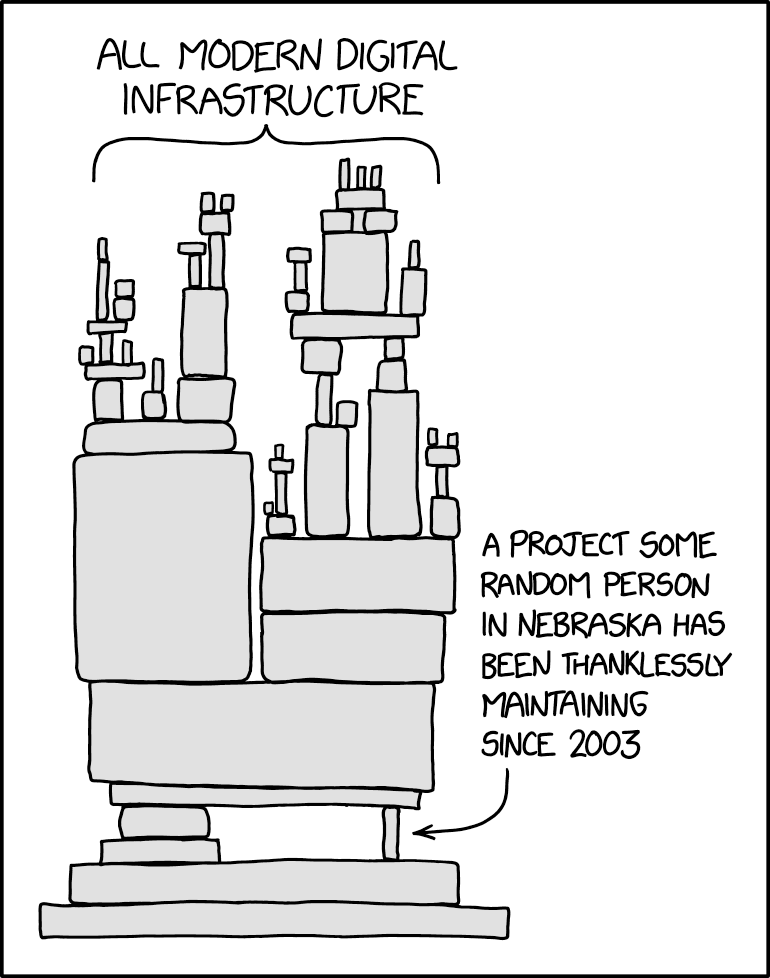
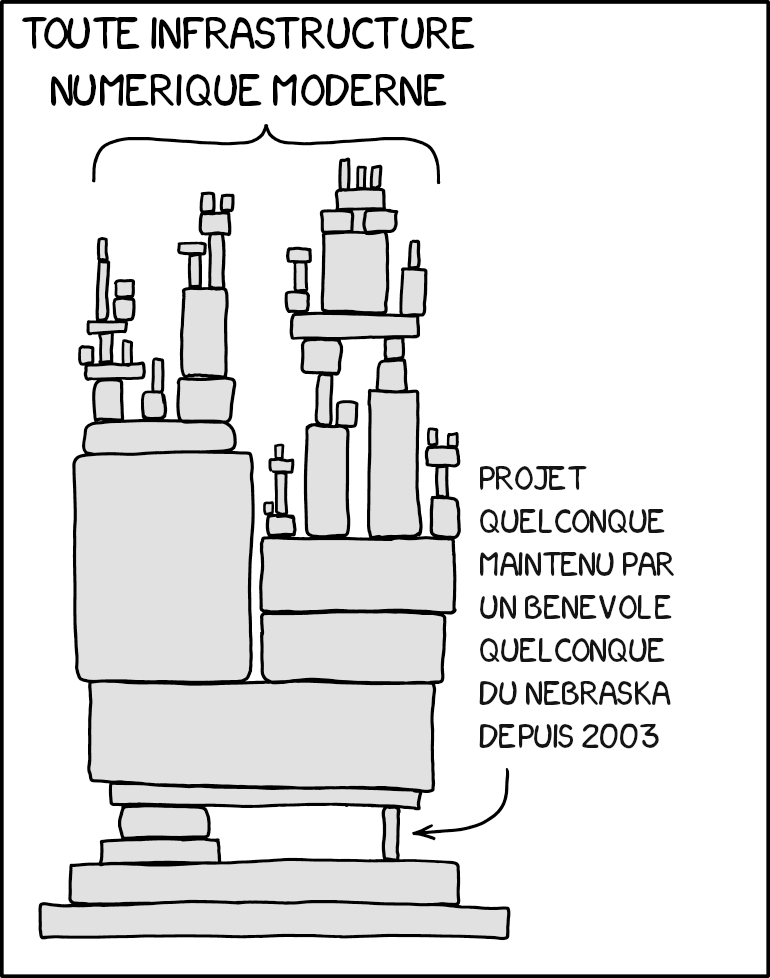
Traduction et déplacement de XKCD

Changed region(s): [[0.6234, 0.4601, 0.9351, 0.7975], [0.0312, 0.0, 0.6234, 0.1227]]

diff --git a/slides.md b/slides.md
@@ -286,10 +286,6 @@ Voici la définition de l'open-source selon wikipedia
 
 --
 
-<!-- .slide: data-background-image="media/dependency_2x.png" data-background-size="contain" -->
-
---
-
 <!-- .slide: data-background-image="media/tech-drawing.jpg, media/kicad.png" -->
 
 Notes:
@@ -314,6 +310,17 @@ Si on compare le logiciel libre à un objet électronique
 * les couches
 * les composants
 * le schéma électrique
+
+--
+
+<!-- .slide: data-background-image="media/dependency_2x.png" data-background-size="contain" -->
+
+Notes:
+
+* Des fois tout dépend d'un petit composant logiciel
+* Si ce-dernier casse, tout tombe
+* Chateau de cartes
+* Oui c'est déjà arrivé cf. nodejs
 
 ---
 
